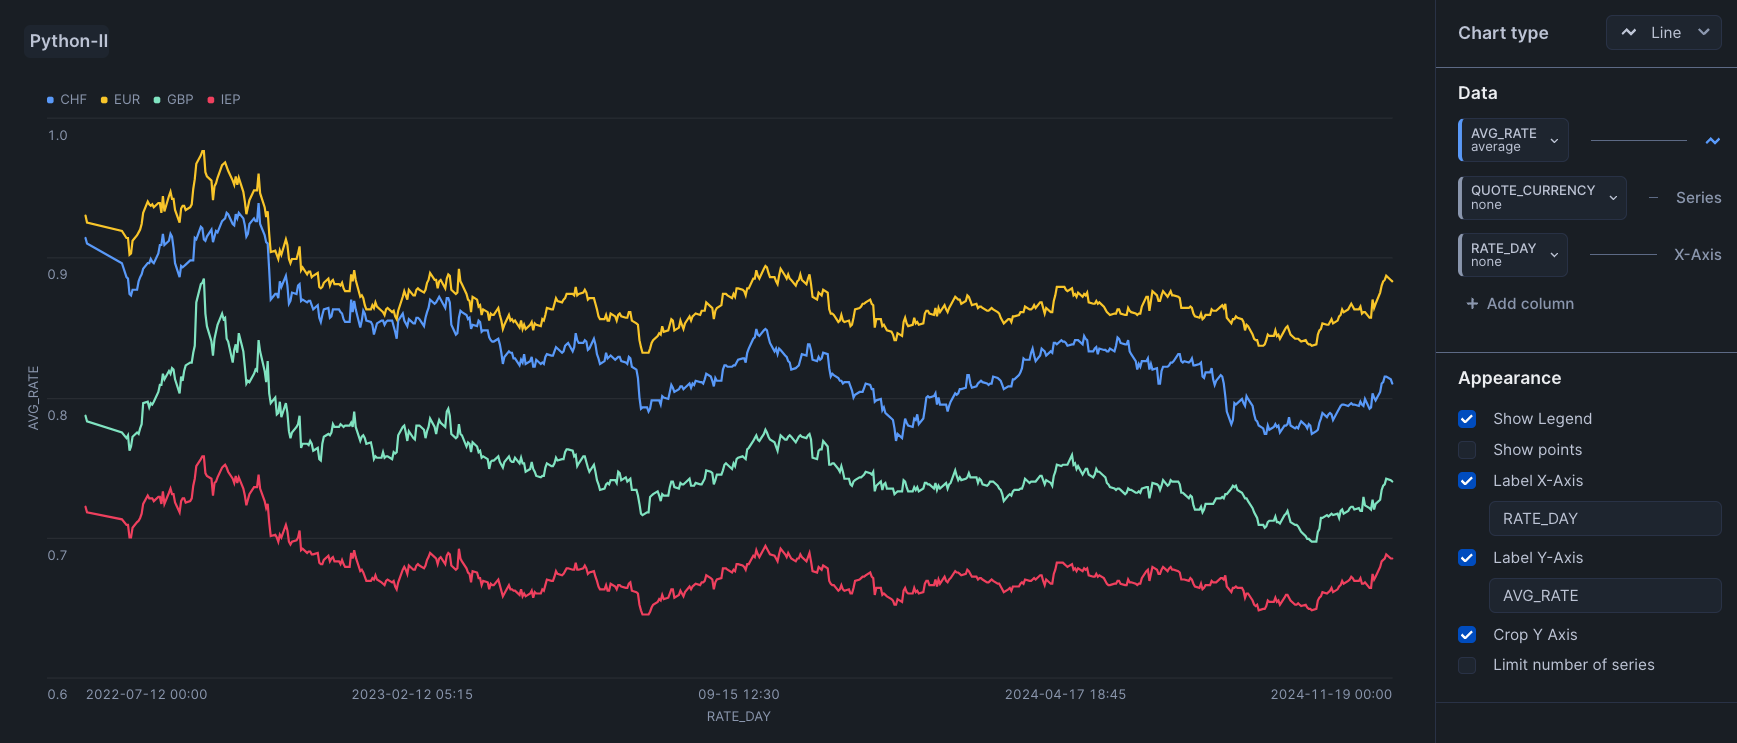
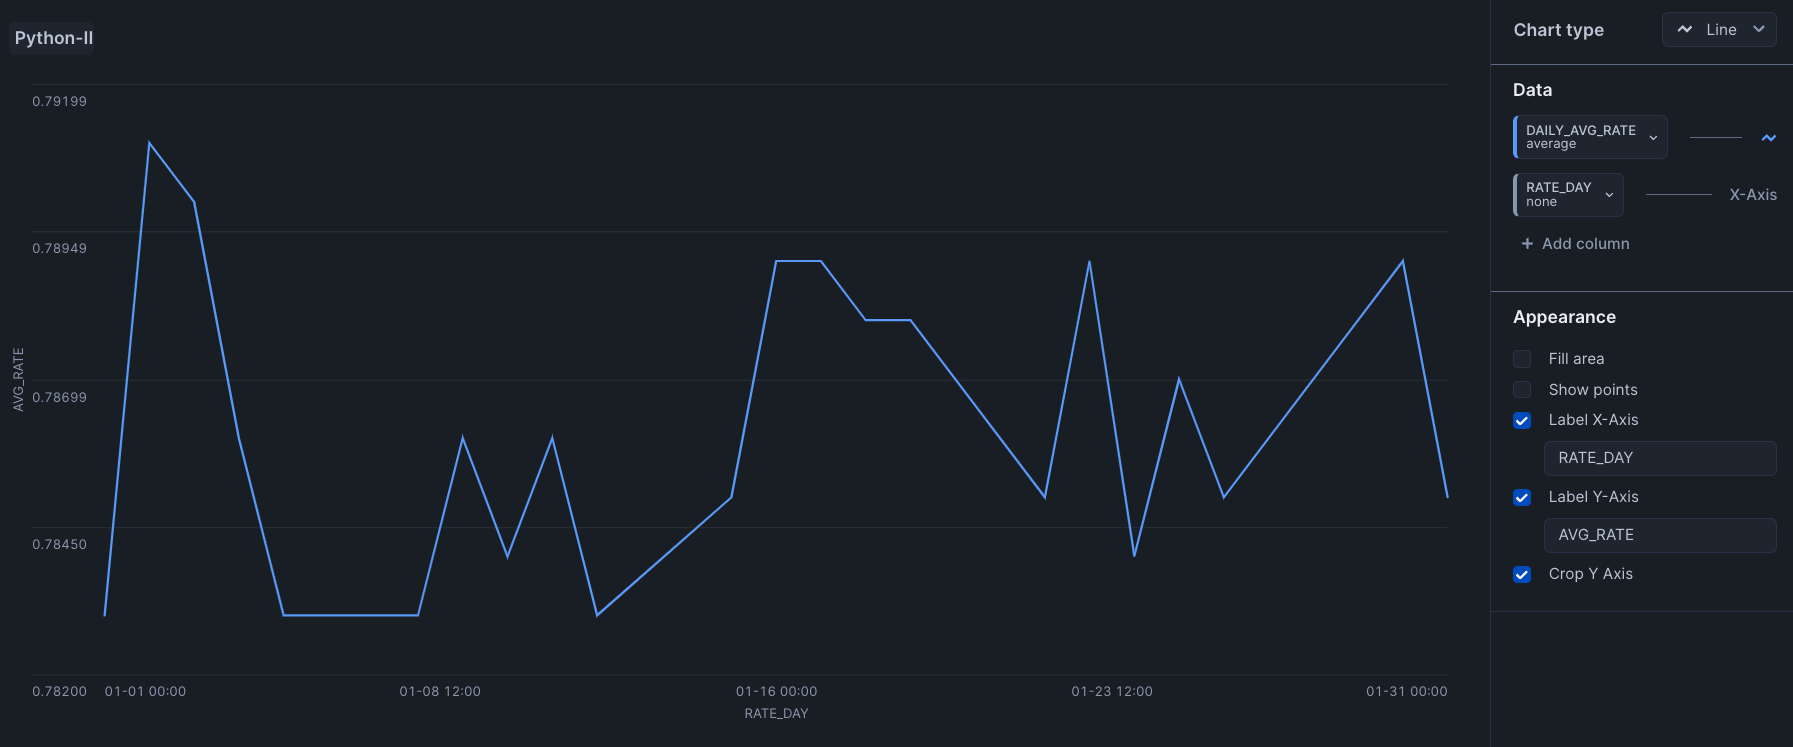
update notes and image

diff --git a/snowflake-II.md b/snowflake-II.md
@@ -888,14 +888,16 @@ return daily_avg
 - Move to the `Chart` tab
 - Select `Line` as the Chart type
 - Under `Data`
-  - First drop down: `DAILY_AVG_RATE` - select average
-  - Second drop down (X-Axis): `RATE_DAY`
+  - First drop down: `DAILY_AVG_RATE` - select average under
+  - Second drop down (X-Axis): `RATE_DAY` - select none under
 - Under `Appearance`, check:
-  - Show points
+  - Label X-Axis
+  - Label Y-Axis
+  - Crop Y Axis
 - Increase the size of the chart if needed by dragging the tab up
 
 
-In this `Chart` we can see that the rate didn't fluctuate much, but there is some days with no data, which can be weekends
+In this `Chart` we can see that how the rate `USDGBP` fluctuate during the month of January
 
 <br>
 
